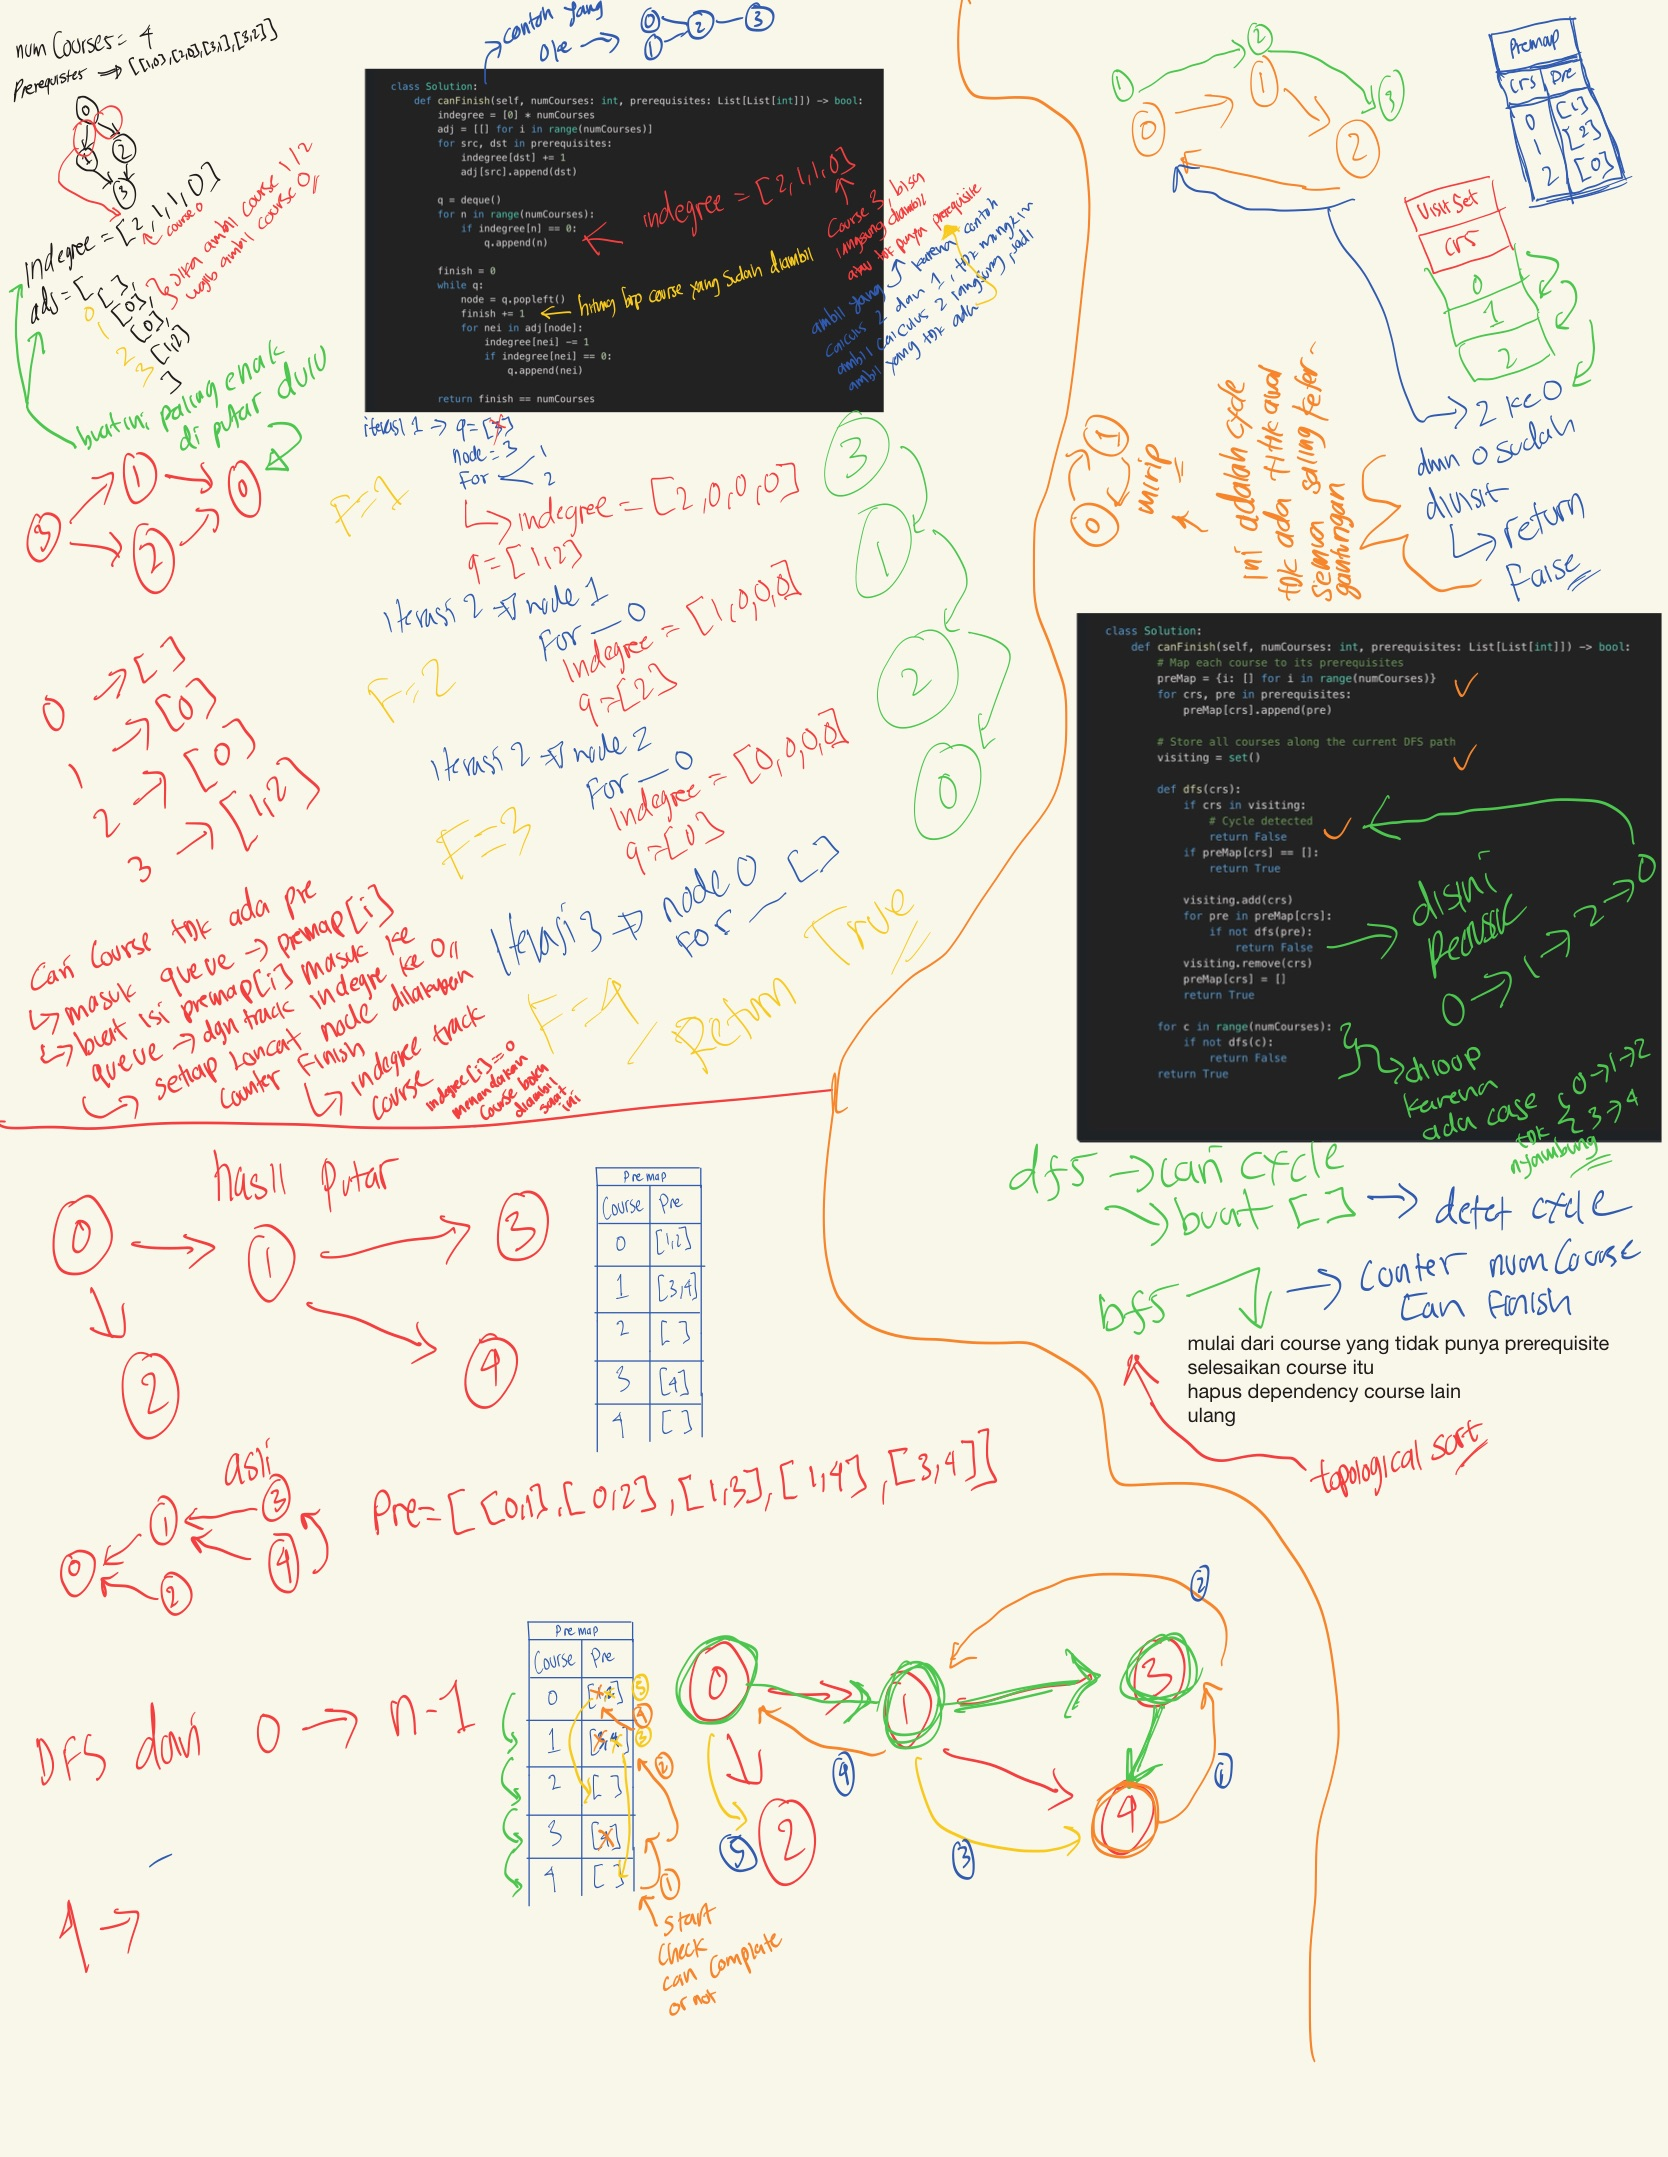
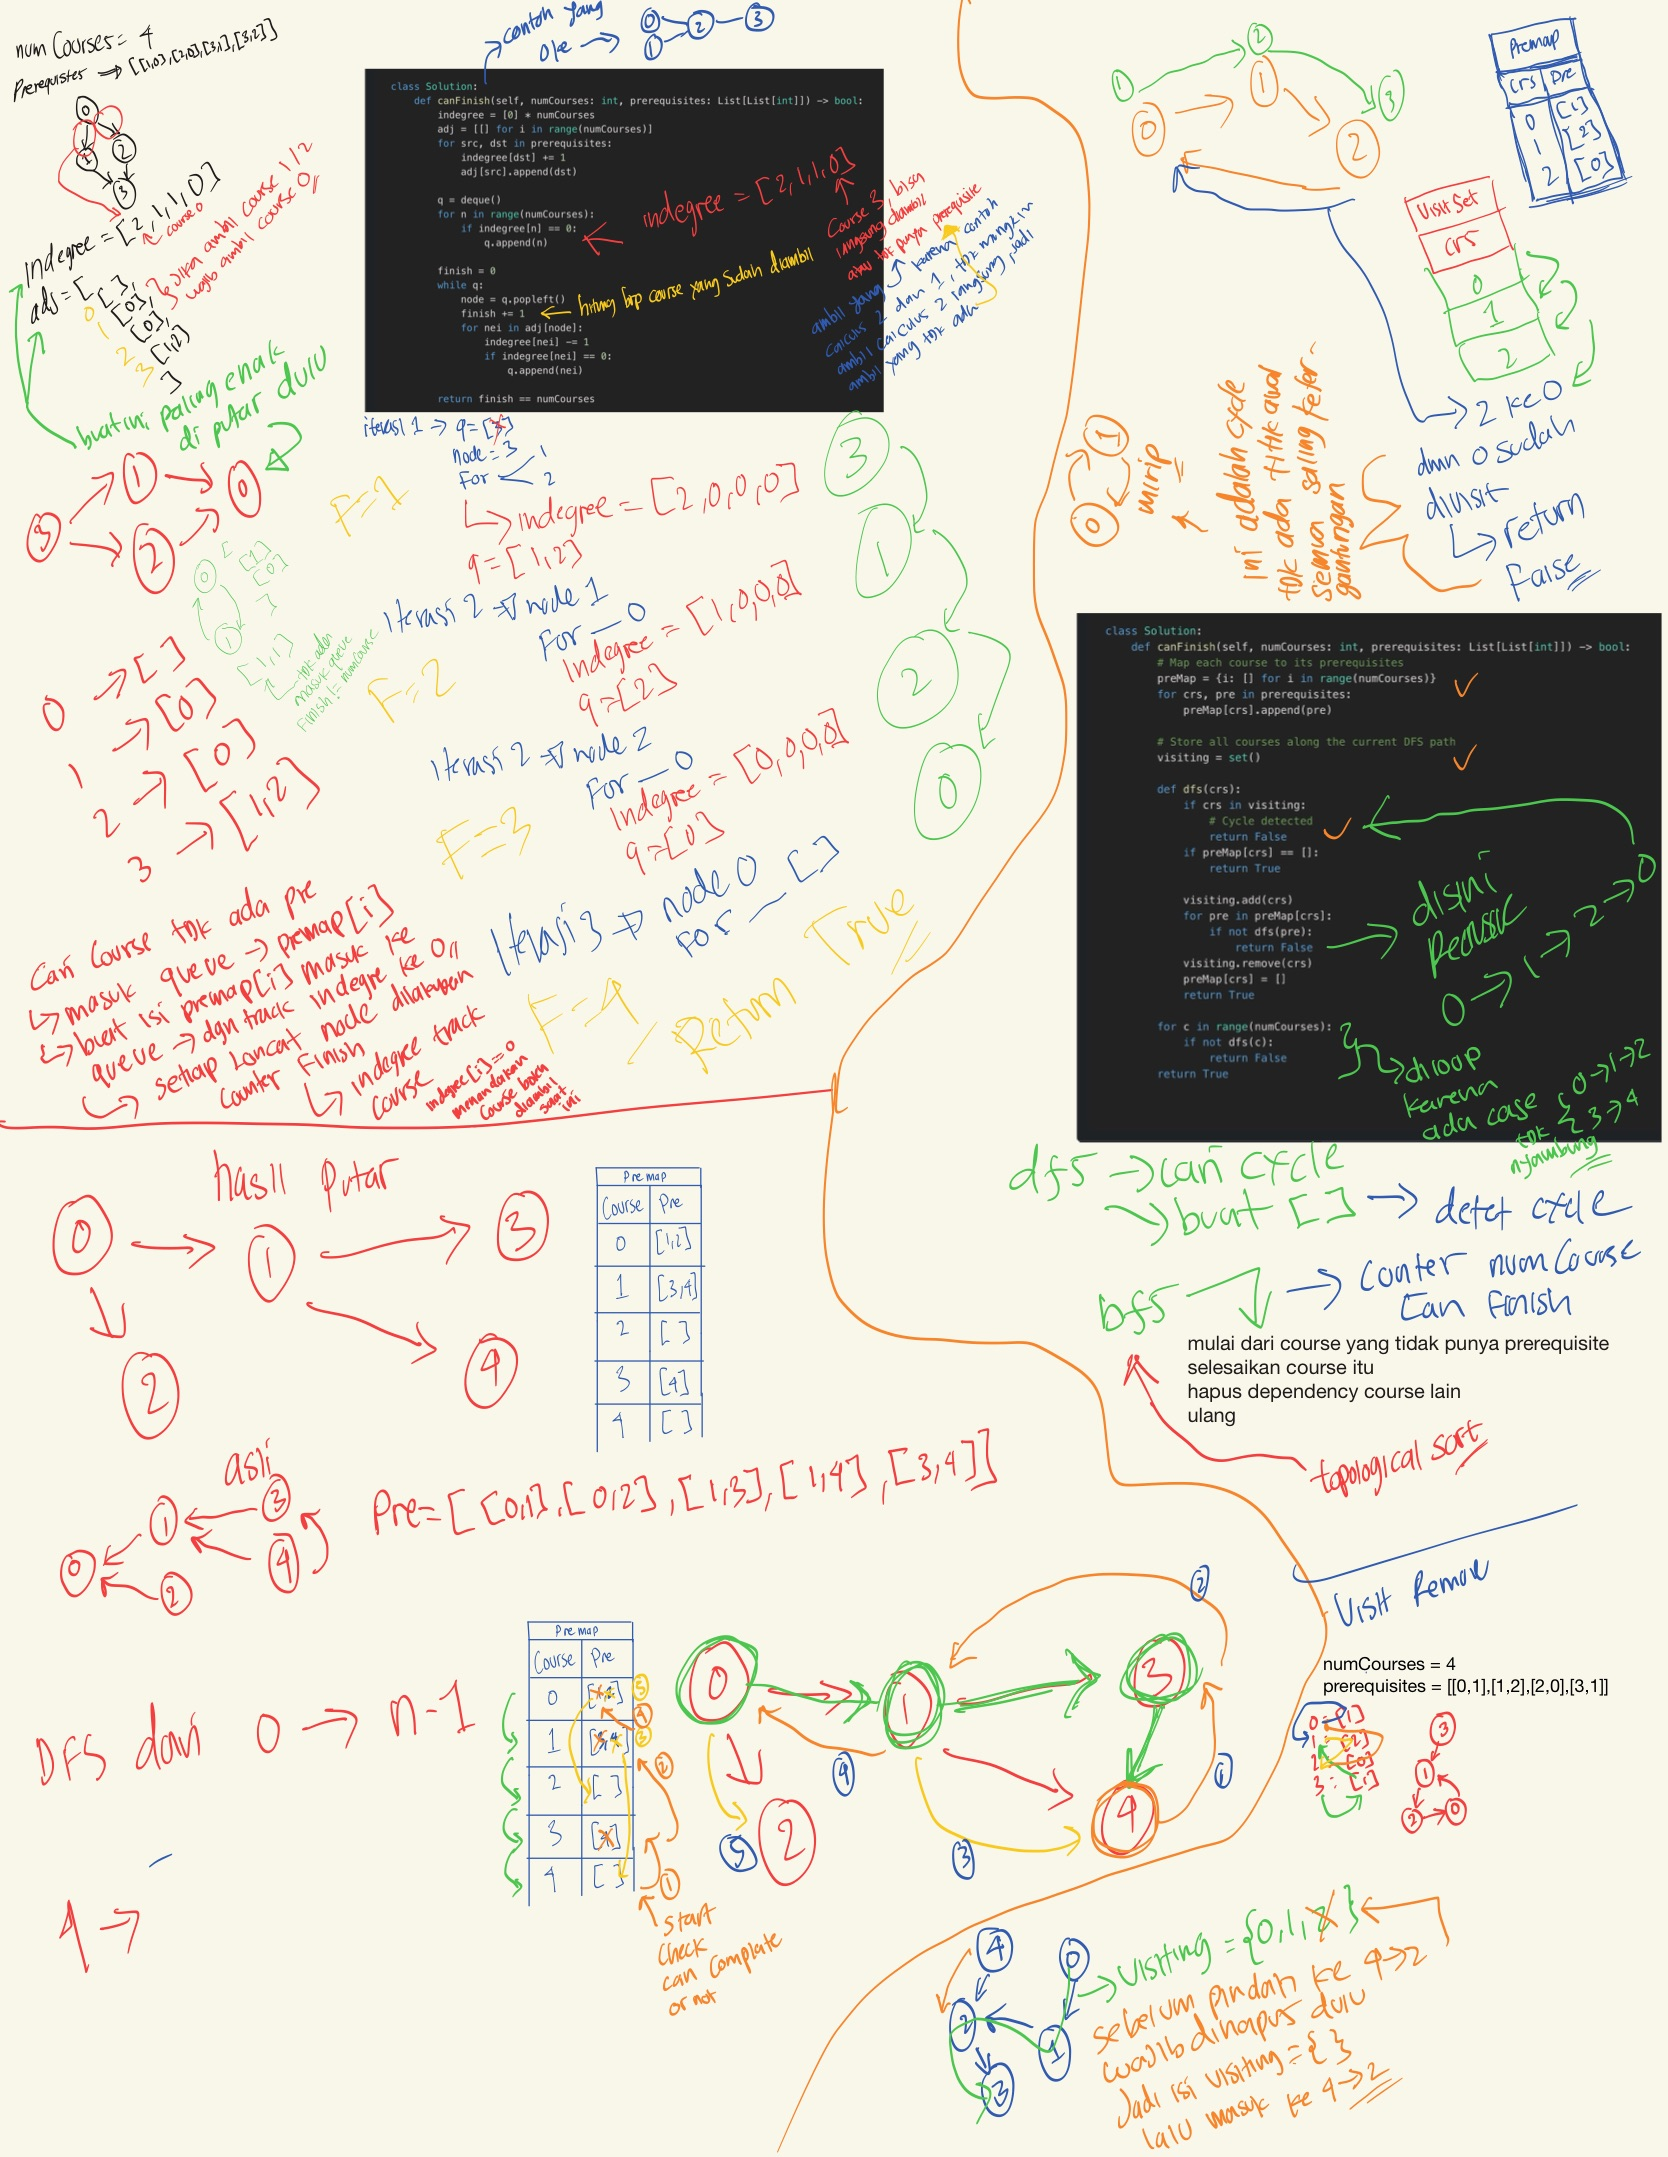
gass. teruss

diff --git a/Blind75/Graphs/261.py b/Blind75/Graphs/261.py
@@ -1,0 +1,25 @@
+class Solution:
+    def validTree(self, n: int, edges: List[List[int]]) -> bool:
+        if len(edges) > n - 1:
+            return False
+
+        adj = [[] for _ in range(n)]
+        for u, v in edges:
+            adj[u].append(v)
+            adj[v].append(u)
+
+        visit = set()
+        q = deque([(0, -1)])  # (current node, parent node)
+        visit.add(0)
+
+        while q:
+            node, parent = q.popleft()
+            for nei in adj[node]:
+                if nei == parent:
+                    continue
+                if nei in visit:
+                    return False
+                visit.add(nei)
+                q.append((nei, node))
+
+        return len(visit) == n
